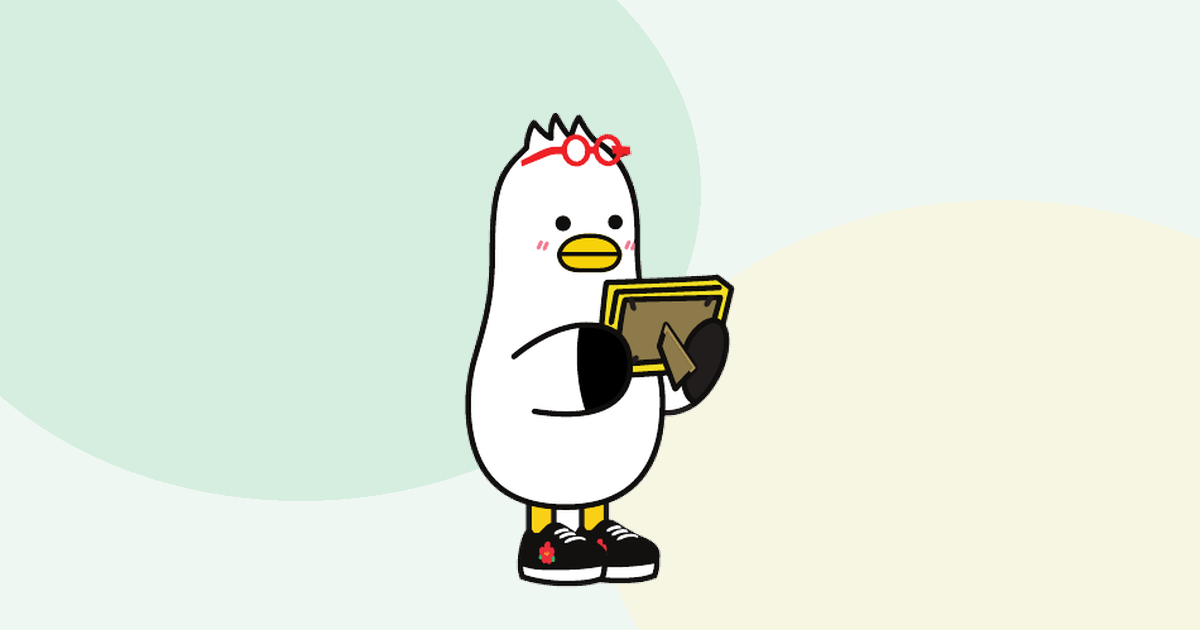
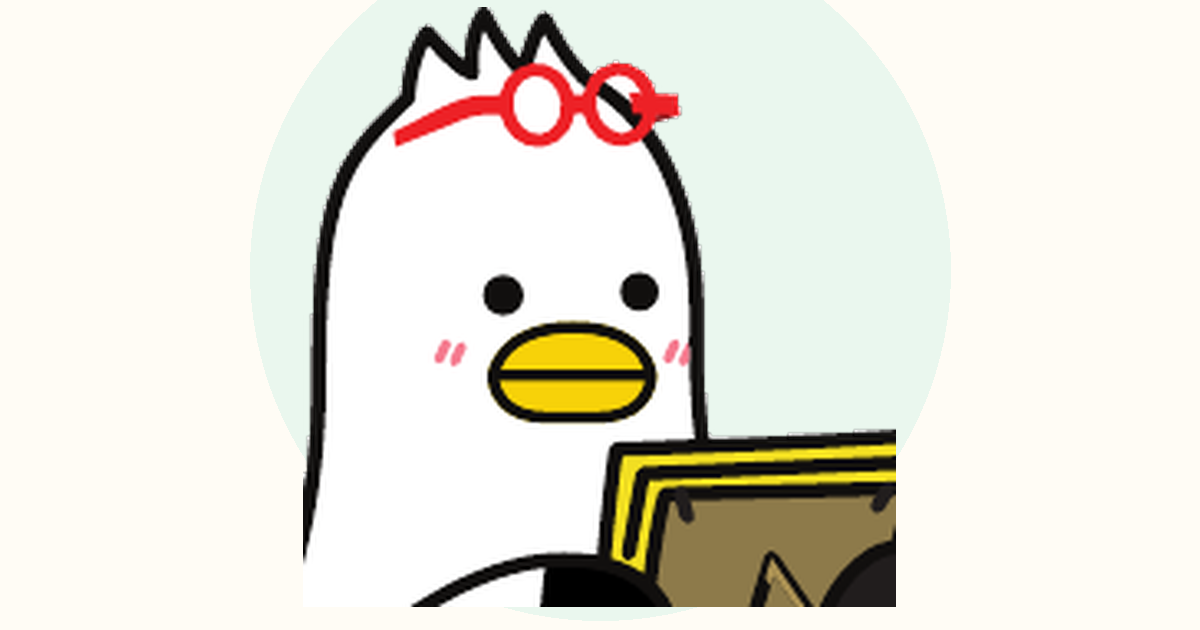
링크 썸네일을 부기 얼굴 클로즈업으로 다시 맞춘다.

diff --git a/index.html b/index.html
@@ -17,17 +17,17 @@
   <meta property="og:type" content="website" />
   <meta property="og:title" content="부기의 사라진 낱말을 찾아라!" />
   <meta property="og:description" content="부산도서관 탐험책 완성 대작전" />
-  <meta property="og:image" content="https://logrinssam.github.io/library-treasure-hunt/images/og-boogi.png?v=20260804d" />
+  <meta property="og:image" content="https://logrinssam.github.io/library-treasure-hunt/images/og-boogi.png?v=20260804face" />
   <meta property="og:image:width" content="1200" />
   <meta property="og:image:height" content="630" />
   <meta name="twitter:card" content="summary_large_image" />
-  <meta name="twitter:image" content="https://logrinssam.github.io/library-treasure-hunt/images/og-boogi.png?v=20260804d" />
+  <meta name="twitter:image" content="https://logrinssam.github.io/library-treasure-hunt/images/og-boogi.png?v=20260804face" />
   <link rel="icon" type="image/png" href="character_image/01_start/01_boogi_reading.png" />
-  <link rel="apple-touch-icon" href="images/og-boogi.png?v=20260804d" />
+  <link rel="apple-touch-icon" href="images/og-boogi.png?v=20260804face" />
   <link rel="preconnect" href="https://fonts.googleapis.com" />
   <link rel="preconnect" href="https://fonts.gstatic.com" crossorigin />
   <link href="https://fonts.googleapis.com/css2?family=Jua&family=Nunito:wght@600;700;800&display=swap" rel="stylesheet" />
-  <link rel="stylesheet" href="style.css?v=20260804d" />
+  <link rel="stylesheet" href="style.css?v=20260804face" />
 </head>
 <body>
   <div class="app-shell" id="app">
@@ -390,6 +390,6 @@
     </section>
   </div>
 
-  <script src="script.js?v=20260804d"></script>
+  <script src="script.js?v=20260804face"></script>
 </body>
 </html>
